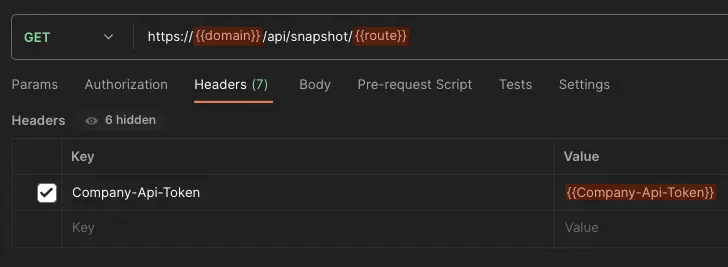
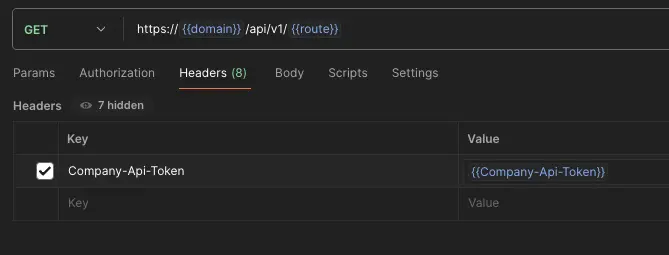
Oleh-Rudko | renew photo and add url to docs

diff --git a/endpoints/projects/decisions.md b/endpoints/projects/decisions.md
@@ -12,6 +12,7 @@
 
 - `domain`: String, ask `Acuity Support`
 - `route`: String, `/projects/decisions`
+- `url`: String, `https://<domain>/api/v1/projects/decisions`
 - `Company-Api-Token`: UUID, ask `Acuity Support`
 
 **Response**:

diff --git a/endpoints/projects/resources.md b/endpoints/projects/resources.md
@@ -12,6 +12,7 @@
 
 - `domain`: String, ask `Acuity Support`
 - `route`: String, `/projects/resources`
+- `url`: String, `https://<domain>/api/v1/projects/resources`
 - `Company-Api-Token`: UUID, ask `Acuity Support`
 
 **Response**:

diff --git a/endpoints/projects/benefits.md b/endpoints/projects/benefits.md
@@ -12,6 +12,7 @@
 
 - `domain`: String, ask `Acuity Support`
 - `route`: String, `/projects/benefits`
+- `url`: String, `https://<domain>/api/v1/projects/benefits`
 - `Company-Api-Token`: UUID, ask `Acuity Support`
 
 **Response**:

diff --git a/endpoints/projects/lessons.md b/endpoints/projects/lessons.md
@@ -12,6 +12,7 @@
 
 - `domain`: String, ask `Acuity Support`
 - `route`: String, `/projects/lessons`
+- `url`: String, `https://<domain>/api/v1/projects/lessons`
 - `Company-Api-Token`: UUID, ask `Acuity Support`
 
 **Response**:

diff --git a/endpoints/projects/reports.md b/endpoints/projects/reports.md
@@ -12,6 +12,7 @@
 
 - `domain`: String, ask `Acuity Support`
 - `route`: String, `/projects/reports`
+- `url`: String, `https://<domain>/api/v1/projects/reports`
 - `Company-Api-Token`: UUID, ask `Acuity Support`
 
 **Response**:

diff --git a/endpoints/projects/issues.md b/endpoints/projects/issues.md
@@ -12,6 +12,7 @@
 
 - `domain`: String, ask `Acuity Support`
 - `route`: String, `/projects/issues`
+- `url`: String, `https://<domain>/api/v1/projects/issues`
 - `Company-Api-Token`: UUID, ask `Acuity Support`
 
 **Response**:

diff --git a/endpoints/projects/risks.md b/endpoints/projects/risks.md
@@ -12,6 +12,7 @@
 
 - `domain`: String, ask `Acuity Support`
 - `route`: String, `/projects/risks`
+- `url`: String, `https://<domain>/api/v1/projects/risks`
 - `Company-Api-Token`: UUID, ask `Acuity Support`
 
 **Response**:

diff --git a/endpoints/proposals/proposals.md b/endpoints/proposals/proposals.md
@@ -12,6 +12,7 @@
 
 - `domain`: String, ask `Acuity Support`
 - `route`: String, `/proposals`
+- `url`: String, `https://<domain>/api/v1/proposals`
 - `Company-Api-Token`: UUID, ask `Acuity Support`
 
 **Response**:

diff --git a/endpoints/projects/projects.md b/endpoints/projects/projects.md
@@ -12,6 +12,7 @@
 
 - `domain`: String, ask `Acuity Support`
 - `route`: String, `/projects`
+- `url`: String, `https://<domain>/api/v1/projects`
 - `Company-Api-Token`: UUID, ask `Acuity Support`
 
 **Response**:
